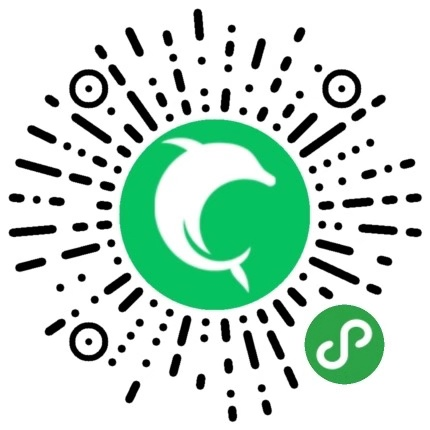
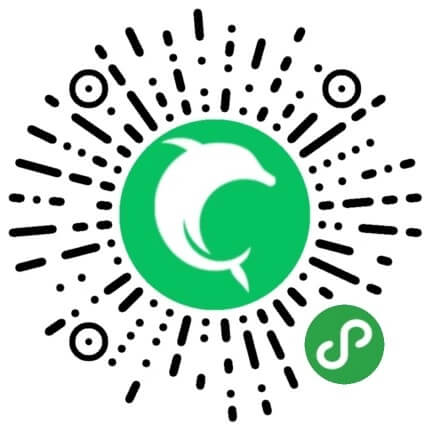
压缩

diff --git a/readme.md b/readme.md
@@ -43,7 +43,7 @@ s-class-row | 替换行样式 | class | [{}] |
 
 #### 经典案例1
 
-![计分助理](./qdFromGithub.png)
+![计分助理](./qdFromGithub.jpeg)
 
 #### 经典案例2
 
